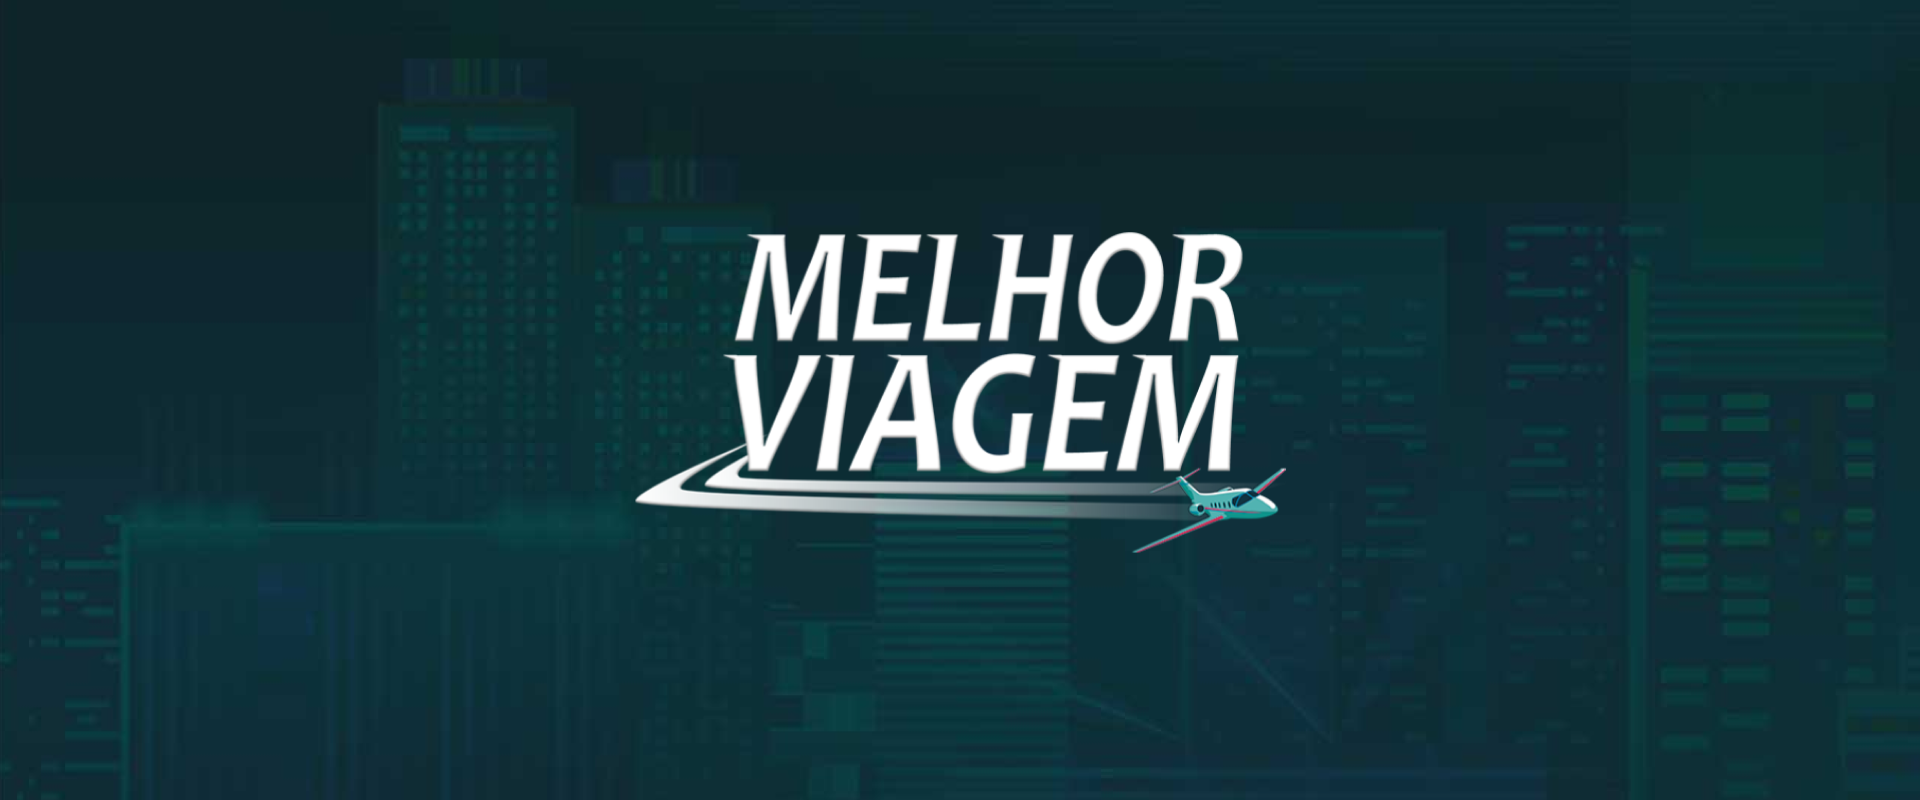
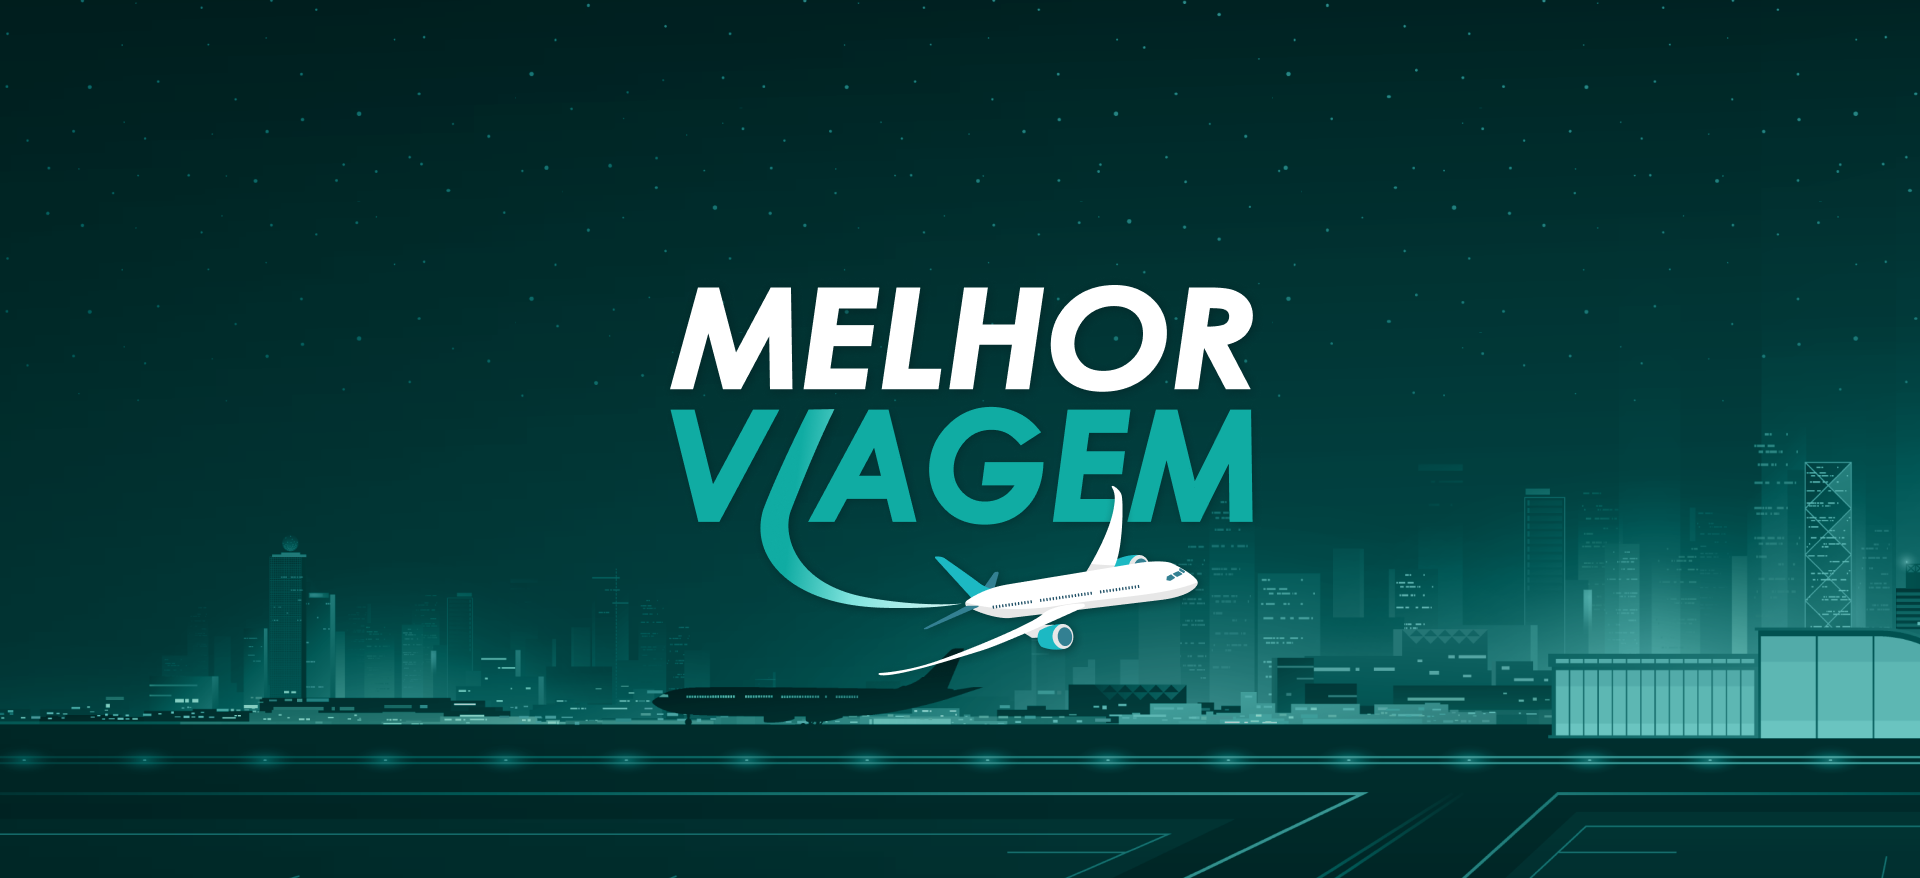
header update

diff --git a/web/src/components/Header/index.js b/web/src/components/Header/index.js
@@ -1,0 +1,116 @@
+import React from "react";
+
+function Header() {
+  return (
+    <>
+      <header className="header">
+        <nav className="navbar navbar-magicclub navbar-expand-lg fixed-top bg-menu-magicclub">
+          <div className="container">
+            <a className="navbar-brand" href="/">
+              <img
+                src="img/Logo_MBR-white.png"
+                width="120"
+                alt="logo"
+                className="img-fluid mb-2"
+              />
+            </a>
+            <button
+              className="navbar-toggler"
+              type="button"
+              data-toggle="collapse"
+              data-target="#navbarSupportedContent"
+              aria-controls="navbarSupportedContent"
+              aria-expanded="false"
+              aria-label="Toggle navigation"
+            >
+              <span className="ti-menu"></span>
+            </button>
+
+            <div
+              className="collapse navbar-collapse main-menu"
+              id="navbarSupportedContent"
+            >
+              <ul className="navbar-nav ml-auto ">
+                <li className="nav-item">
+                  <a className="nav-link page-scroll" href="#about">
+                    Sobre Nós
+                  </a>
+                </li>
+                <li className="nav-item dropdown">
+                  <a
+                    className="nav-link page-scroll dropdown-toggle"
+                    href="/#"
+                    id="navbarDropdownHome"
+                    role="button"
+                    data-toggle="dropdown"
+                    aria-haspopup="true"
+                    aria-expanded="false"
+                  >
+                    Nossos Jogos
+                  </a>
+                  <div
+                    className="dropdown-menu submenu"
+                    aria-labelledby="navbarDropdownHome"
+                  >
+                    <a className="dropdown-item" href="/magic-club">
+                      Magic Club
+                    </a>
+                    <a className="dropdown-item" href="/alt">
+                      Alt
+                    </a>
+                    <a className="dropdown-item" href="/kubets">
+                      Kubets
+                    </a>
+                    <a className="dropdown-item" href="/melhor-viagem">
+                      Melhor Viagem
+                    </a>
+                  </div>
+                </li>
+                <li className="nav-item dropdown">
+                  <a
+                    className="nav-link page-scroll dropdown-toggle"
+                    href="/#"
+                    id="navbarDropdownPage"
+                    role="button"
+                    data-toggle="dropdown"
+                    aria-haspopup="true"
+                    aria-expanded="false"
+                  >
+                    Nossos Produtos
+                    {/* <span className="custom-nav-badge badge badge-primary badge-pill">
+                      New
+  </span> */}
+                  </a>
+                  <div
+                    className="dropdown-menu submenu"
+                    aria-labelledby="navbarDropdownPage"
+                  >
+                    <a className="dropdown-item" href="login1">
+                      Login Page 1
+                    </a>
+                    <a className="dropdown-item" href="login2">
+                      Login Page 2
+                    </a>
+                    <a className="dropdown-item" href="signup1">
+                      Signup Page 1
+                    </a>
+                    <a className="dropdown-item" href="signup2">
+                      Signup Page 2
+                    </a>
+                  </div>
+                </li>
+                <li className="nav-item">
+                  <a className="nav-link page-scroll" href="#contact">
+                    Contato
+                  </a>
+                </li>
+              </ul>
+            </div>
+          </div>
+        </nav>
+      </header>
+    </>
+  );
+}
+
+export default Header;

diff --git a/web/public/assets/css/style.css b/web/public/assets/css/style.css
@@ -758,7 +758,8 @@ select.form-control.has-value {
 .bg-transparent ul li a,
 .bg-menu-magicclub ul li a {
   color: #ffffff;
-  opacity: 0.8;
+  opacity: 1;
+  font-weight: bold;
 }
 
 .bg-transparent ul li a:hover,
@@ -2308,12 +2309,12 @@ select.form-control.has-value {
 .feature-tab li a.nav-link.active,
 .feature-tab li a.nav-link:hover {
   border-color: #ebebeb;
-  background: #6730e3;
+  background: #ffffff;
   color: #ffffff;
 }
 
 .feature-tab li a.nav-link.active {
-  background: #6730e3;
+  background: #ffffff;
   color: #ffffff;
 }
 
@@ -2392,11 +2393,12 @@ select.form-control.has-value {
 }
 
 .background-img-kubets {
-  background-image: url("../../img/games/kubets/background.png") !important;
+  background-image: url("../../img/games/kubets/background-mobile.png") !important;
 }
 
 .background-img-melhorviagem {
-  background-image: url("../../img/games/melhor-viagem/background.png") !important;
+  background-image: url("../../img/games/melhor-viagem/background-mobile.png") !important;
+  background-size: cover !important;
 }
 
 .background-img-magicclub:before,
@@ -2421,11 +2423,12 @@ select.form-control.has-value {
 }
 
 .background-img-kubets::before {
-  background-image: url("../../img/games/kubets/background.png") !important;
+  background-image: url("../../img/games/kubets/background-mobile.png") !important;
 }
 
 .background-img-melhorviagem::before {
-  background-image: url("../../img/games/melhor-viagem/background.png") !important;
+  background-image: url("../../img/games/melhor-viagem/background-mobile.png") !important;
+  background-size: cover !important;
 }
 
 /* next size - tablet */

diff --git a/web/src/themes/magic-club.js b/web/src/themes/magic-club.js
@@ -1,6 +1,6 @@
 import React, { Component } from "react";
 
-import Header from "../components/MagicClub/HeaderMagicClub";
+import Header from "../components/Header";
 import HeroSection from "../components/MagicClub/HeroSectionMagicClub";
 import AboutSection from "../components/MagicClub/AboutMagicClub";
 import Books from "../components/MagicClub/Books"
